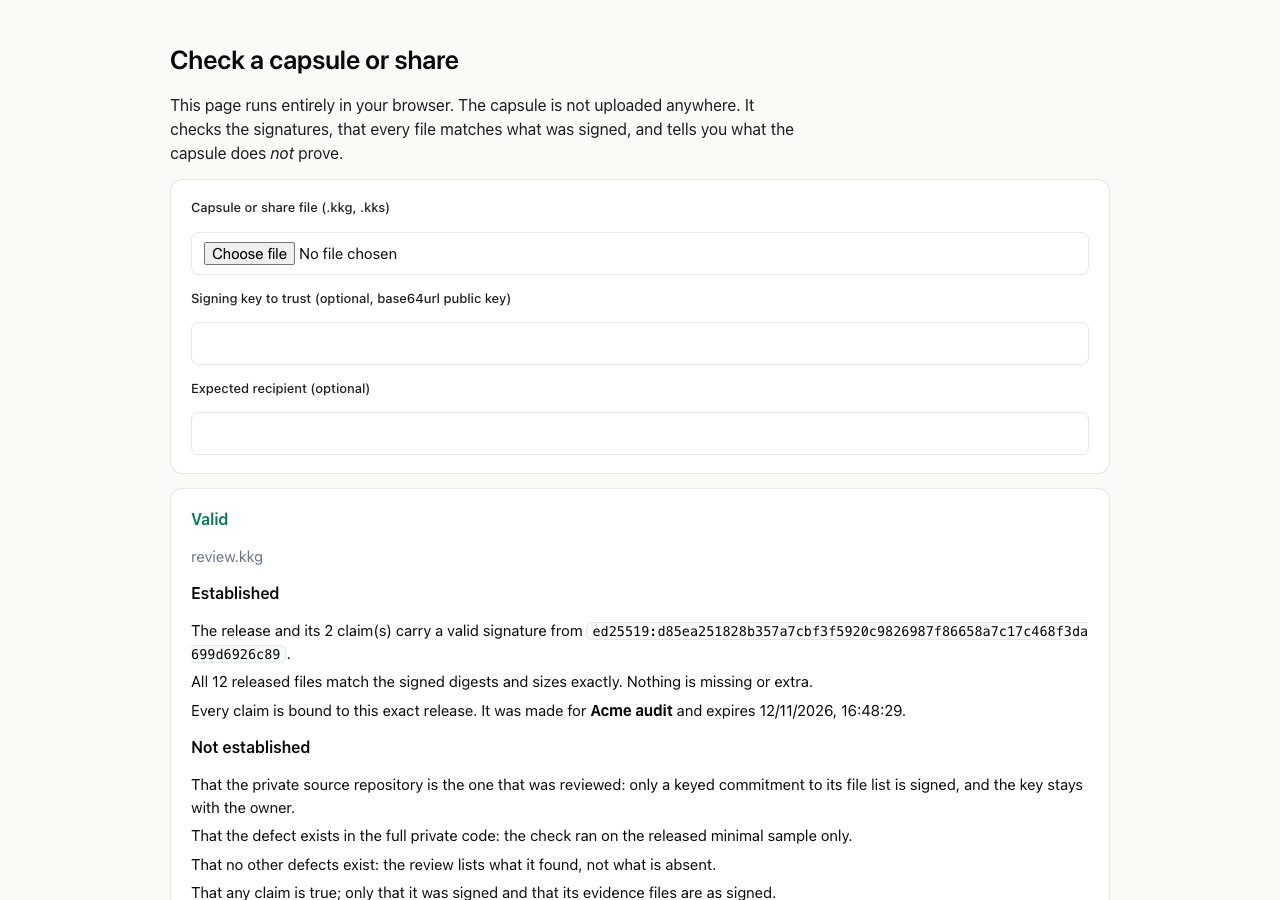
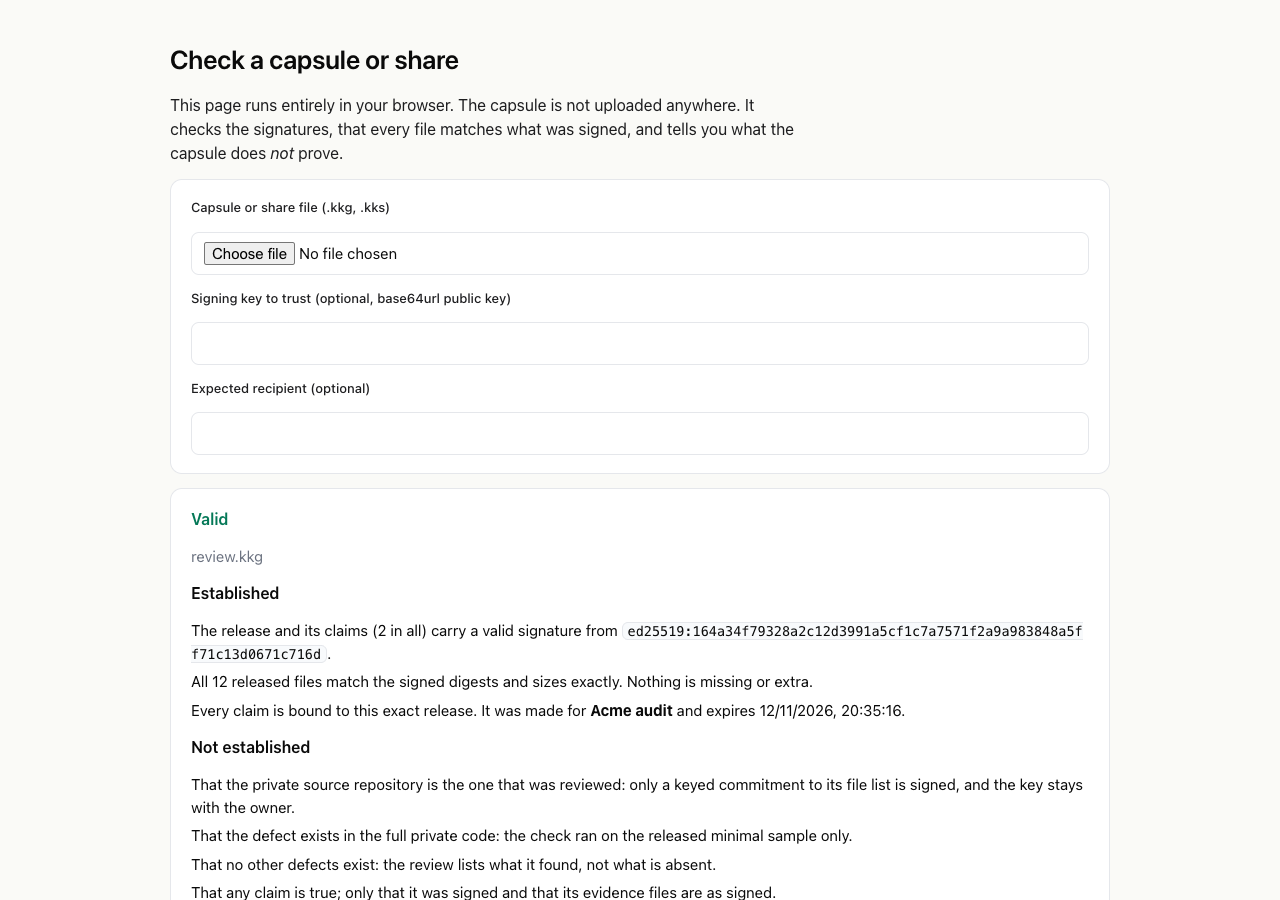
Desktop flows run with a real model by naming it; README screenshots retaken on the polished build

Changed region(s): [[0.25, 0.6844, 0.8438, 0.7156], [0.1562, 0.7156, 0.25, 0.7467], [0.6562, 0.7778, 0.7188, 0.8089]]

diff --git a/docs/engineering-decisions/desktop-shell.md b/docs/engineering-decisions/desktop-shell.md
@@ -176,3 +176,4 @@ Kakurega keeps running when its window is closed, as a Mac app does: a menu-bar 
 - Linux (the VM, real Electron under a virtual display): `desktop_tray.mjs` 24 (the three window-close checks are the Mac's: elsewhere closing the window ends the app) and `desktop_profiles.mjs` 9, both added to `scripts/desktop-linux`. The screen picture there is the one the test supplies; a real capture on a Linux desktop is NOT TESTED, and the menu-bar item under a real Linux desktop's tray was not looked at by a person.
 - Electron moved from 45.2.3 to 45.3.0 (the packaging guard refused to build on a pin that was behind). Release notes read (`gh release view v45.3.0 --repo electron/electron`): fixes only, none in an API this shell uses except a crash fix around `setPermissionRequestHandler`; Chromium 156.0.8078.96. After the move: on the Mac `desktop.mjs` 23, `desktop_attack.mjs` 23, `desktop_tray.mjs` 27, `desktop_profiles.mjs` 9, `desktop_recovery.mjs` 7, `desktop_forcequit.mjs` 4, `desktop_fuses.mjs` 7; in the Linux VM `scripts/desktop-linux` (23, 7, 7, 4, 24, 9) and `scripts/package-linux`: the .deb builds, installs, and passes 18 package checks.
 - Found on the way: the Linux package check had not been run since the app's service began answering only its own window. Its check "the service serves the packaged web interface" asked from outside and got 403, and the script then died on an unset variable instead of printing the failure. The check now asserts what the app guarantees (another program is refused with SHELL_ONLY; the service was started on the packaged web folder) and a failed check prints. Both Linux scripts now install the Electron that `package.json` pins (one had 45.2.2 written into it).
+- Test as used with the real local model (`node tests/e2e/desktop.mjs qwen2.5-coder:7b`, the same 23 checks as the scripted run, with the real sandbox): the app opens paired, an outside program is refused, two reviews run to their release, the native approval dialog lists the recipient, the exact files and what is withheld, the Secure Enclave key signs the second approval, both are delivered, and a document question is answered in the window. 23 of 23 in under ten minutes. The dialog's buttons and Touch ID are answered by the test, as in the scripted run: a person's click and finger are NOT TESTED here.

diff --git a/docs/engineering-decisions/web-shell.md b/docs/engineering-decisions/web-shell.md
@@ -324,3 +324,4 @@ Performance of Solid with long streaming transcripts at our scale; accessibility
   - Activity showed raw names for many entries (`session.kept`). All 120 kinds the service writes now have a plain label in both languages, and `scripts/check_log_labels.py` (run by `scripts/test` and the fast check) fails when a new kind has none: it found 75 on its first run.
   Evidence: `run.mjs` 512, `packs_web.mjs` 16, `bundled_web.mjs` 9, `team_web.mjs` 37.
 - On a phone the top of the page is kept short: only the badge that says where the model runs is shown there, and the hint about dropping files is gone (a phone has nothing to drop). The screen matrix, 152 cells, flags nothing.
+- The inbox said its sentences as the service wrote them (English, "2 suggested note(s)"); the page now says them itself in its own language, and only an expert's question is shown as it came. Two checkboxes used a list row's style and sat off their labels with a line under them; they use the checkbox row now.
